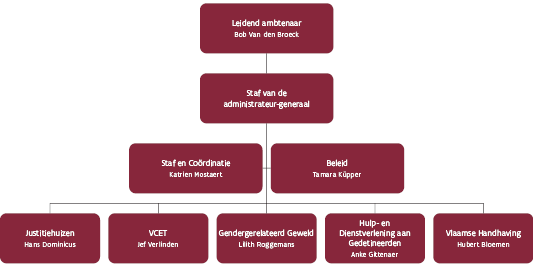
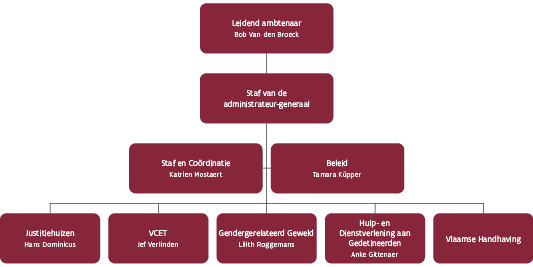
Add files via upload

Changed region(s): [[0.8405, 0.839, 0.9906, 0.9288]]

diff --git a/publication-web-resources/html/publication.html b/publication-web-resources/html/publication.html
@@ -6,16 +6,14 @@
 		<link href="../css/idGeneratedStyles.css" rel="stylesheet" type="text/css" />
 	</head>
 	<body id="publication" style="width:800px;height:400px;background-color:white;">
-		<a target="_blank" href="https://vlaamseoverheid.sharepoint.com/sites/jeanne/SitePages/Organogram-AJH-Directie.aspx">
-			<div id="_idContainer000" class="Basic-Graphics-Frame _idGenObjectStyle-Disabled">
-				<div style="width:0px;height:0px;position:absolute;top:0px;left:0px;-webkit-transform-origin: 0% 0%; -webkit-transform: translate(0px,1px) rotate(0deg) scale(1);transform-origin: 0% 0%; transform: translate(0px,1px) rotate(0deg) scale(1);">
-					<p class="base ParaOverride-1"><span id="_idTextSpan000" class="CharOverride-1" style="position:absolute;top:23.32px;left:47.55px;letter-spacing:-0.09px;">Leidend </span><span id="_idTextSpan001" class="CharOverride-1" style="position:absolute;top:23.32px;left:93.48px;letter-spacing:-0.08px;">ambtenaar</span></p>
-					<p class="naam ParaOverride-1"><span id="_idTextSpan002" class="CharOverride-2" style="position:absolute;top:41.02px;left:51.63px;letter-spacing:0.18px;">Bob </span><span id="_idTextSpan003" class="CharOverride-2" style="position:absolute;top:41.02px;left:73.68px;letter-spacing:0.09px;">Van </span><span id="_idTextSpan004" class="CharOverride-2" style="position:absolute;top:41.02px;left:94.81px;letter-spacing:0.17px;">den </span><span id="_idTextSpan005" class="CharOverride-2" style="position:absolute;top:41.02px;left:116.07px;letter-spacing:0.15px;">Broeck</span></p>
-				</div>
+		<div id="_idContainer000" class="Basisafbeeldingskader _idGenObjectStyle-Disabled">
+			<div style="width:0px;height:0px;position:absolute;top:0px;left:0px;-webkit-transform-origin: 0% 0%; -webkit-transform: translate(0px,1px) rotate(0deg) scale(1);transform-origin: 0% 0%; transform: translate(0px,1px) rotate(0deg) scale(1);">
+				<p class="base ParaOverride-1"><span id="_idTextSpan000" class="CharOverride-1" style="position:absolute;top:23.32px;left:47.55px;letter-spacing:-0.09px;">Leidend </span><span id="_idTextSpan001" class="CharOverride-1" style="position:absolute;top:23.32px;left:93.48px;letter-spacing:-0.08px;">ambtenaar</span></p>
+				<p class="naam ParaOverride-1"><span id="_idTextSpan002" class="CharOverride-2" style="position:absolute;top:41.02px;left:51.63px;letter-spacing:0.18px;">Bob </span><span id="_idTextSpan003" class="CharOverride-2" style="position:absolute;top:41.02px;left:73.68px;letter-spacing:0.09px;">Van </span><span id="_idTextSpan004" class="CharOverride-2" style="position:absolute;top:41.02px;left:94.81px;letter-spacing:0.17px;">den </span><span id="_idTextSpan005" class="CharOverride-2" style="position:absolute;top:41.02px;left:116.07px;letter-spacing:0.15px;">Broeck</span></p>
 			</div>
-		</a>
+		</div>
 		<a target="_blank" href="https://vlaamseoverheid.sharepoint.com/sites/jeanne/SitePages/Organogram-AJH-Directie.aspx">
-			<div id="_idContainer001" class="Basic-Graphics-Frame _idGenObjectStyle-Disabled">
+			<div id="_idContainer001" class="Basisafbeeldingskader _idGenObjectStyle-Disabled">
 				<div style="width:0px;height:0px;position:absolute;top:0px;left:0px;-webkit-transform-origin: 0% 0%; -webkit-transform: translate(0px,1px) rotate(0deg) scale(1);transform-origin: 0% 0%; transform: translate(0px,1px) rotate(0deg) scale(1);">
 					<p class="base ParaOverride-1"><span id="_idTextSpan006" class="CharOverride-1" style="position:absolute;top:23.32px;left:69.81px;letter-spacing:-0.09px;">Staf </span><span id="_idTextSpan007" class="CharOverride-1" style="position:absolute;top:23.32px;left:94px;letter-spacing:-0.04px;">van </span><span id="_idTextSpan008" class="CharOverride-1" style="position:absolute;top:23.32px;left:117.13px;letter-spacing:-0.02px;">de </span></p>
 					<p class="base ParaOverride-1"><span id="_idTextSpan009" class="CharOverride-1" style="position:absolute;top:39.32px;left:35.35px;letter-spacing:-0.14px;">administrateur-generaal</span></p>
@@ -23,7 +21,7 @@
 			</div>
 		</a>
 		<a target="_blank" href="https://vlaamseoverheid.sharepoint.com/sites/jeanne/SitePages/Organogrammen-AJH--Justitiehuizen.aspx">
-			<div id="_idContainer002" class="Basic-Graphics-Frame _idGenObjectStyle-Disabled">
+			<div id="_idContainer002" class="Basisafbeeldingskader _idGenObjectStyle-Disabled">
 				<div style="width:0px;height:0px;position:absolute;top:0px;left:0px;-webkit-transform-origin: 0% 0%; -webkit-transform: translate(0px,1px) rotate(0deg) scale(1);transform-origin: 0% 0%; transform: translate(0px,1px) rotate(0deg) scale(1);">
 					<p class="base ParaOverride-1"><span id="_idTextSpan010" class="CharOverride-1" style="position:absolute;top:23.32px;left:38.1px;letter-spacing:-0.14px;">Justitiehuizen</span></p>
 					<p class="naam ParaOverride-1"><span id="_idTextSpan011" class="CharOverride-2" style="position:absolute;top:41.02px;left:36.57px;letter-spacing:0.14px;">Hans </span><span id="_idTextSpan012" class="CharOverride-2" style="position:absolute;top:41.02px;left:63.43px;letter-spacing:0.13px;">Dominicus</span></p>
@@ -31,15 +29,15 @@
 			</div>
 		</a>
 		<a target="_blank" href="https://vlaamseoverheid.sharepoint.com/sites/jeanne/SitePages/Organogrammen-AJH--Staf-en-Co%C3%B6rdinatie.aspx">
-			<div id="_idContainer003" class="Basic-Graphics-Frame _idGenObjectStyle-Disabled">
+			<div id="_idContainer003" class="Basisafbeeldingskader _idGenObjectStyle-Disabled">
 				<div style="width:0px;height:0px;position:absolute;top:0px;left:0px;-webkit-transform-origin: 0% 0%; -webkit-transform: translate(0px,1px) rotate(0deg) scale(1);transform-origin: 0% 0%; transform: translate(0px,1px) rotate(0deg) scale(1);">
 					<p class="base ParaOverride-1"><span id="_idTextSpan013" class="CharOverride-1" style="position:absolute;top:23.32px;left:48.36px;letter-spacing:-0.09px;">Staf </span><span id="_idTextSpan014" class="CharOverride-1" style="position:absolute;top:23.32px;left:72.55px;letter-spacing:0px;">en </span><span id="_idTextSpan015" class="CharOverride-1" style="position:absolute;top:23.32px;left:89.22px;letter-spacing:-0.14px;">Coördinatie</span></p>
 					<p class="naam ParaOverride-1"><span id="_idTextSpan016" class="CharOverride-2" style="position:absolute;top:41.02px;left:60.26px;letter-spacing:0.18px;">Katrien </span><span id="_idTextSpan017" class="CharOverride-2" style="position:absolute;top:41.02px;left:97.97px;letter-spacing:0.22px;">Mostaert</span></p>
 				</div>
 			</div>
 		</a>
-		<a target="_blank" href="https://vlaamseoverheid.sharepoint.com/sites/jeanne/SitePages/Organogrammen-AJH--Staf-en-Co%C3%B6rdinatie.aspx">
-			<div id="_idContainer004" class="Basic-Graphics-Frame _idGenObjectStyle-Disabled">
+		<a target="_blank" href="https://vlaamseoverheid.sharepoint.com/sites/jeanne/SitePages/Organogrammen-AJH--Beleid.aspx">
+			<div id="_idContainer004" class="Basisafbeeldingskader _idGenObjectStyle-Disabled">
 				<div style="width:0px;height:0px;position:absolute;top:0px;left:0px;-webkit-transform-origin: 0% 0%; -webkit-transform: translate(0px,1px) rotate(0deg) scale(1);transform-origin: 0% 0%; transform: translate(0px,1px) rotate(0deg) scale(1);">
 					<p class="base ParaOverride-1"><span id="_idTextSpan018" class="CharOverride-1" style="position:absolute;top:23.32px;left:83.32px;letter-spacing:-0.04px;">Beleid</span></p>
 					<p class="naam ParaOverride-1"><span id="_idTextSpan019" class="CharOverride-2" style="position:absolute;top:41.02px;left:62.99px;letter-spacing:0.02px;">Tamara </span><span id="_idTextSpan020" class="CharOverride-2" style="position:absolute;top:41.02px;left:101.84px;letter-spacing:0.16px;">Küpper</span></p>
@@ -47,7 +45,7 @@
 			</div>
 		</a>
 		<a target="_blank" href="https://vlaamseoverheid.sharepoint.com/sites/jeanne/SitePages/Organogrammen-AJH--VCET.aspx">
-			<div id="_idContainer005" class="Basic-Graphics-Frame _idGenObjectStyle-Disabled">
+			<div id="_idContainer005" class="Basisafbeeldingskader _idGenObjectStyle-Disabled">
 				<div style="width:0px;height:0px;position:absolute;top:0px;left:0px;-webkit-transform-origin: 0% 0%; -webkit-transform: translate(0px,1px) rotate(0deg) scale(1);transform-origin: 0% 0%; transform: translate(0px,1px) rotate(0deg) scale(1);">
 					<p class="base ParaOverride-1"><span id="_idTextSpan021" class="CharOverride-1" style="position:absolute;top:23.32px;left:60.91px;letter-spacing:-0.08px;">VCET</span></p>
 					<p class="naam ParaOverride-1"><span id="_idTextSpan022" class="CharOverride-2" style="position:absolute;top:41.02px;left:43.92px;letter-spacing:0.2px;">Jef </span><span id="_idTextSpan023" class="CharOverride-2" style="position:absolute;top:41.02px;left:60.05px;letter-spacing:0.13px;">Verlinden</span></p>
@@ -55,7 +53,7 @@
 			</div>
 		</a>
 		<a target="_blank" href="https://vlaamseoverheid.sharepoint.com/sites/jeanne/SitePages/Organogrammen-AJH--Hulp--en-Dienstverlening-aan-gedetineerden.aspx">
-			<div id="_idContainer006" class="Basic-Graphics-Frame _idGenObjectStyle-Disabled">
+			<div id="_idContainer006" class="Basisafbeeldingskader _idGenObjectStyle-Disabled">
 				<div style="width:0px;height:0px;position:absolute;top:0px;left:0px;-webkit-transform-origin: 0% 0%; -webkit-transform: translate(0px,1px) rotate(0deg) scale(1);transform-origin: 0% 0%; transform: translate(0px,1px) rotate(0deg) scale(1);">
 					<p class="base ParaOverride-1"><span id="_idTextSpan024" class="CharOverride-1" style="position:absolute;top:8.32px;left:51.67px;letter-spacing:-0.01px;">Hulp- </span><span id="_idTextSpan025" class="CharOverride-1" style="position:absolute;top:8.32px;left:84.15px;letter-spacing:0px;">en </span></p>
 					<p class="base ParaOverride-1"><span id="_idTextSpan026" class="CharOverride-1" style="position:absolute;top:22.32px;left:21.46px;letter-spacing:-0.1px;">Dienstverlening </span><span id="_idTextSpan027" class="CharOverride-1" style="position:absolute;top:22.32px;left:108.52px;letter-spacing:-0.02px;">aan</span></p>
@@ -65,44 +63,43 @@
 			</div>
 		</a>
 		<a target="_blank" href="https://vlaamseoverheid.sharepoint.com/sites/jeanne/SitePages/Organogrammen-AJH--Gendergerelateerd-geweld.aspx">
-			<div id="_idContainer007" class="Basic-Graphics-Frame _idGenObjectStyle-Disabled">
+			<div id="_idContainer007" class="Basisafbeeldingskader _idGenObjectStyle-Disabled">
 				<div style="width:0px;height:0px;position:absolute;top:0px;left:0px;-webkit-transform-origin: 0% 0%; -webkit-transform: translate(0px,1px) rotate(0deg) scale(1);transform-origin: 0% 0%; transform: translate(0px,1px) rotate(0deg) scale(1);">
 					<p class="base ParaOverride-1"><span id="_idTextSpan031" class="CharOverride-1" style="position:absolute;top:23.32px;left:3.08px;letter-spacing:-0.07px;">Gendergerelateerd </span><span id="_idTextSpan032" class="CharOverride-1" style="position:absolute;top:23.32px;left:106.06px;letter-spacing:-0.05px;">Geweld</span></p>
 					<p class="naam ParaOverride-1"><span id="_idTextSpan033" class="CharOverride-2" style="position:absolute;top:41.02px;left:32.95px;letter-spacing:0.13px;">Lilith </span><span id="_idTextSpan034" class="CharOverride-2" style="position:absolute;top:41.02px;left:60.2px;letter-spacing:0.18px;">Roggemans</span></p>
 				</div>
 			</div>
 		</a>
-		<div id="_idContainer008" class="Basic-Graphics-Frame _idGenObjectStyle-Disabled">
+		<div id="_idContainer008" class="Basisafbeeldingskader _idGenObjectStyle-Disabled">
 			<div style="width:0px;height:0px;position:absolute;top:0px;left:0px;-webkit-transform-origin: 0% 0%; -webkit-transform: translate(0px,1px) rotate(0deg) scale(1);transform-origin: 0% 0%; transform: translate(0px,1px) rotate(0deg) scale(1);">
-				<p class="base ParaOverride-1"><span id="_idTextSpan035" class="CharOverride-1" style="position:absolute;top:23.32px;left:18.75px;letter-spacing:-0.06px;">Vlaamse </span><span id="_idTextSpan036" class="CharOverride-1" style="position:absolute;top:23.32px;left:67.01px;letter-spacing:-0.14px;">Handhaving</span></p>
-				<p class="naam ParaOverride-1"><span id="_idTextSpan037" class="CharOverride-2" style="position:absolute;top:41.02px;left:35.81px;letter-spacing:0.22px;">Hubert </span><span id="_idTextSpan038" class="CharOverride-2" style="position:absolute;top:41.02px;left:72.56px;letter-spacing:0.21px;">Bloemen</span></p>
+				<p class="base ParaOverride-1"><span id="_idTextSpan035" class="CharOverride-1" style="position:absolute;top:31.32px;left:18.75px;letter-spacing:-0.06px;">Vlaamse </span><span id="_idTextSpan036" class="CharOverride-1" style="position:absolute;top:31.32px;left:67.01px;letter-spacing:-0.14px;">Handhaving</span></p>
 			</div>
 		</div>
-		<div id="_idContainer009" class="Basic-Graphics-Frame _idGenObjectStyle-Disabled">
+		<div id="_idContainer009" class="Basisafbeeldingskader _idGenObjectStyle-Disabled">
[1 lines of base64/hex data omitted]
 		</div>
-		<div id="_idContainer010" class="Basic-Graphics-Frame _idGenObjectStyle-Disabled">
+		<div id="_idContainer010" class="Basisafbeeldingskader _idGenObjectStyle-Disabled">
[1 lines of base64/hex data omitted]
 		</div>
-		<div id="_idContainer011" class="Basic-Graphics-Frame _idGenObjectStyle-Disabled">
+		<div id="_idContainer011" class="Basisafbeeldingskader _idGenObjectStyle-Disabled">
[1 lines of base64/hex data omitted]
 		</div>
-		<div id="_idContainer012" class="Basic-Graphics-Frame _idGenObjectStyle-Disabled">
+		<div id="_idContainer012" class="Basisafbeeldingskader _idGenObjectStyle-Disabled">
[1 lines of base64/hex data omitted]
 		</div>
-		<div id="_idContainer013" class="Basic-Graphics-Frame _idGenObjectStyle-Disabled">
+		<div id="_idContainer013" class="Basisafbeeldingskader _idGenObjectStyle-Disabled">
[1 lines of base64/hex data omitted]
 		</div>
-		<div id="_idContainer014" class="Basic-Graphics-Frame _idGenObjectStyle-Disabled">
+		<div id="_idContainer014" class="Basisafbeeldingskader _idGenObjectStyle-Disabled">
[1 lines of base64/hex data omitted]
 		</div>
-		<div id="_idContainer015" class="Basic-Graphics-Frame _idGenObjectStyle-Disabled">
+		<div id="_idContainer015" class="Basisafbeeldingskader _idGenObjectStyle-Disabled">
[1 lines of base64/hex data omitted]
 		</div>
-		<div id="_idContainer016" class="Basic-Graphics-Frame _idGenObjectStyle-Disabled">
+		<div id="_idContainer016" class="Basisafbeeldingskader _idGenObjectStyle-Disabled">
[1 lines of base64/hex data omitted]
 		</div>
-		<div id="_idContainer017" class="Basic-Graphics-Frame _idGenObjectStyle-Disabled">
+		<div id="_idContainer017" class="Basisafbeeldingskader _idGenObjectStyle-Disabled">
[1 lines of base64/hex data omitted]
 		</div>
 	</body>

diff --git a/publication-web-resources/css/idGeneratedStyles.css b/publication-web-resources/css/idGeneratedStyles.css
@@ -25,7 +25,7 @@ body, div, dl, dt, dd, h1, h2, h3, h4, h5, h6, p, pre, code, blockquote, figure 
 div > svg {
 	position:absolute;
 }
-div.Basic-Graphics-Frame {
+div.Basisafbeeldingskader {
 	border-color:#000000;
 	border-width:1px;
 	border-style:solid;
@@ -143,7 +143,7 @@ span.CharOverride-2 {
 	-ms-transform-origin:0% 0%;
 	-webkit-transform:translate(162.500px,319.000px) rotate(0.000deg) skew(0.000deg) scale(1.000,1.000);
 	-webkit-transform-origin:0% 0%;
[2 lines of base64/hex data omitted]
 	background-repeat:no-repeat;
 	background-size:cover;
 	height:77.00px;
